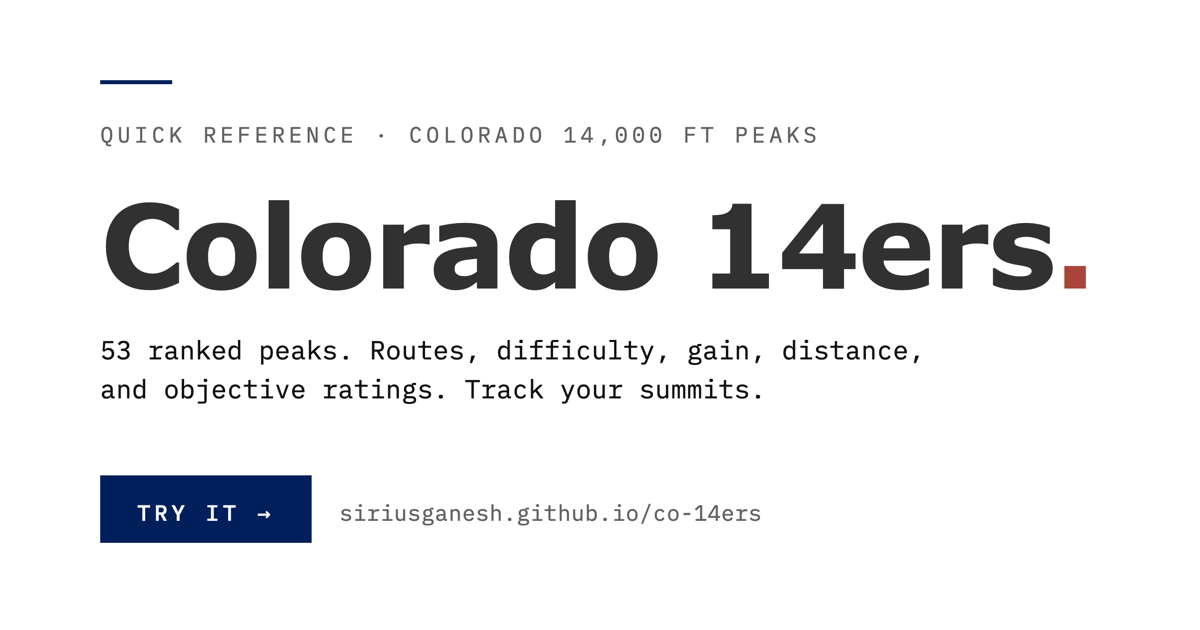
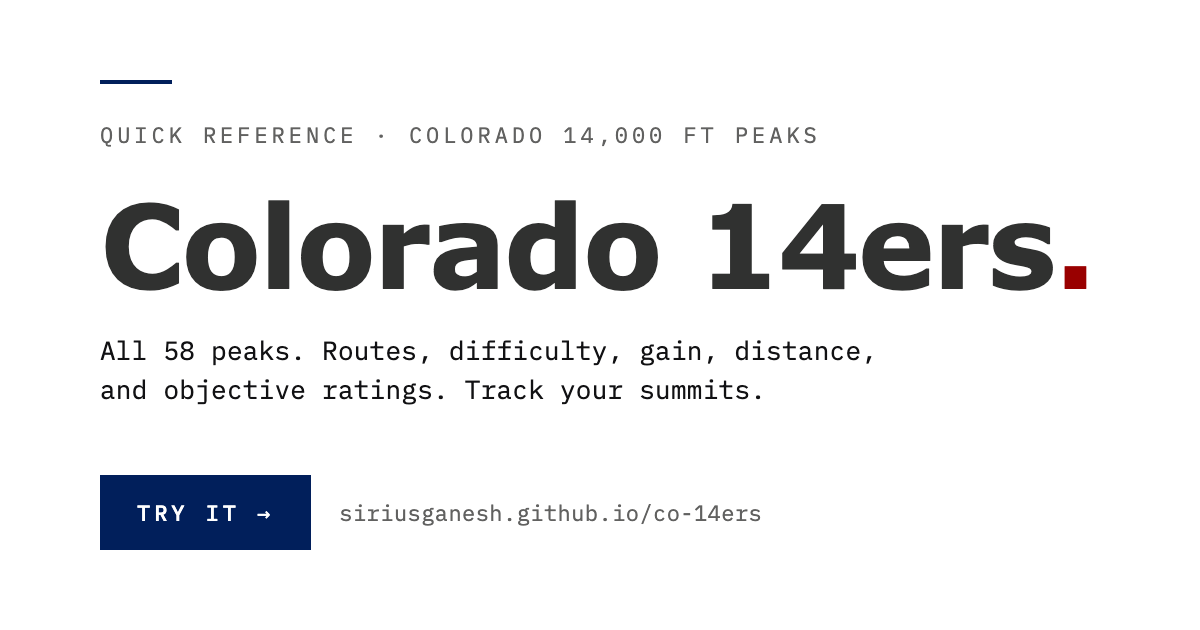
Make the list all 58, and drop the rank column (#40)
* List the five unranked peaks that have routes

The 20 unranked peaks split on whether they have routes, and the two
halves want opposite defaults.

Five have them: El Diente, Challenger Point, Mount Cameron, Conundrum
Peak and North Eolus. They carry a class, a road rating and the four
risk ratings, they are the five that take 14ers.com's list from 53 to
58, and people climb them. They were reachable only by typing a name,
so a query like class:<=3 range:san silently omitted El Diente and
North Eolus. They now sit in the default list and answer every filter
the way a ranked peak does.

The other 15 are subpoints with an empty routes array. Nothing on them
is filterable, so listing them by default would be 15 rows passing or
failing a filter on absence rather than on data. They keep the
text-token rule.

No render changes needed. The divider, the separate unranked count and
the ranked-only progress total were already there; only the gate in
applyFilters moved. Default view now reads "53 shown · 5 unranked" and
the progress line stays 0 / 53.

* Make the list all 58, and drop the rank column

Two usability changes that turned out to be the same change.

The target is 58, not 53. The five unranked peaks with routes are peaks
people set out to climb, so they count toward the total: progress reads
0 / 58, the count line reads 58 shown, and they sort in among the rest
rather than sitting below a divider. Only routeless subpoints stay
[…]

diff --git a/index.html b/index.html
@@ -4,19 +4,19 @@
 <meta charset="utf-8">
 <meta name="viewport" content="width=device-width, initial-scale=1">
 <title>Colorado 14ers</title>
-<meta name="description" content="Quick reference for the 53 ranked Colorado 14,000 ft peaks. Routes, difficulty, ratings. Track your summits.">
+<meta name="description" content="Quick reference for all 58 Colorado 14,000 ft peaks. Routes, difficulty, ratings. Track your summits.">
 <meta property="og:type" content="website">
 <meta property="og:title" content="Colorado 14ers">
-<meta property="og:description" content="Quick reference for the 53 ranked Colorado 14,000 ft peaks. Routes, difficulty, ratings. Track your summits.">
+<meta property="og:description" content="Quick reference for all 58 Colorado 14,000 ft peaks. Routes, difficulty, ratings. Track your summits.">
 <meta property="og:url" content="https://siriusganesh.github.io/co-14ers/">
-<meta property="og:image" content="https://siriusganesh.github.io/co-14ers/og-image.png?v=1">
+<meta property="og:image" content="https://siriusganesh.github.io/co-14ers/og-image.png?v=2">
 <meta property="og:image:width" content="1200">
 <meta property="og:image:height" content="630">
-<meta property="og:image:alt" content="Colorado 14ers — quick reference for the 53 ranked peaks above 14,000 ft.">
+<meta property="og:image:alt" content="Colorado 14ers — quick reference for all 58 peaks above 14,000 ft.">
 <meta name="twitter:card" content="summary_large_image">
 <meta name="twitter:title" content="Colorado 14ers">
-<meta name="twitter:description" content="Quick reference for the 53 ranked Colorado 14,000 ft peaks. Routes, difficulty, ratings. Track your summits.">
-<meta name="twitter:image" content="https://siriusganesh.github.io/co-14ers/og-image.png?v=1">
+<meta name="twitter:description" content="Quick reference for all 58 Colorado 14,000 ft peaks. Routes, difficulty, ratings. Track your summits.">
+<meta name="twitter:image" content="https://siriusganesh.github.io/co-14ers/og-image.png?v=2">
 <link rel="icon" type="image/svg+xml" href="favicon.svg?v=3">
 <meta name="theme-color" id="themeColor" content="#ffffff">
 <script>
@@ -350,14 +350,13 @@ table { width: 100%; border-collapse: collapse; font-size: 14px; }
    summited) cannot reflow the columns. Without table-layout: fixed
    the column widths are recomputed from whichever rows are visible,
    which causes the table to subtly resize on every filter change.
-   Peak (col 2) is left auto so it absorbs the leftover space. */
+   Peak (col 1) is left auto so it absorbs the leftover space. */
 #peakTable { table-layout: fixed; }
-#peakTable th:nth-child(1), #peakTable td:nth-child(1) { width: 3.25rem; }
-#peakTable th:nth-child(3), #peakTable td:nth-child(3) { width: 7rem; }
+#peakTable th:nth-child(2), #peakTable td:nth-child(2) { width: 7rem; }
+#peakTable th:nth-child(3), #peakTable td:nth-child(3) { width: 11rem; }
 #peakTable th:nth-child(4), #peakTable td:nth-child(4) { width: 11rem; }
-#peakTable th:nth-child(5), #peakTable td:nth-child(5) { width: 11rem; }
-#peakTable th:nth-child(6), #peakTable td:nth-child(6) { width: 4.5rem; }
-#peakTable th:nth-child(7), #peakTable td:nth-child(7) { width: 2.25rem; }
+#peakTable th:nth-child(5), #peakTable td:nth-child(5) { width: 4.5rem; }
+#peakTable th:nth-child(6), #peakTable td:nth-child(6) { width: 2.25rem; }
 th, td { text-align: left; padding: .6rem .7rem; border-bottom: 1px solid var(--border); vertical-align: top; }
 th {
   font-family: var(--font-mono); font-weight: 500; font-size: .68rem;
@@ -711,7 +710,7 @@ footer.page-footer {
 
 @media (max-width: 720px) {
   /* Below 720px some peak-table columns are display:none while the
-     detail row's colspan="7" still spans all seven tracks. Fixed
+     detail row's colspan="6" still spans all six tracks. Fixed
      layout realizes the hidden tracks when a row opens and
      redistributes widths onto the wrong columns, collapsing the peak
      name. Auto layout sizes from content and handles both cleanly. */
@@ -731,21 +730,23 @@ footer.page-footer {
   .page { padding: 2rem 1rem 3rem; }
   .controls input[type=search] { min-width: 0; flex: 1; }
 
-  /* Portrait: the table leads with what the site is for -- class and
-     road. Elevation is the least informative column on a 14ers list
-     (every row is 14,0xx), so it yields its space to the peak name. */
-  th.hide-xs, td.hide-xs { display: none; }
+  /* Elevation used to be hidden here: every row reads 14,0xx, so it was
+     the least informative column and it yielded its width to the peak
+     name. It is the default sort key now that the rank column is gone,
+     and a list sorted by a column you cannot see reads as unsorted, so
+     it comes back. The width the rank column gave up covers most of it;
+     a smaller portrait figure covers the rest. */
+  td.elev { font-size: .7rem; }
   /* Column budget: the .68rem badge is ~109px wide -- wider than a
      7rem cell's content box -- so it overflowed into the road column
-     and sat flush against the bars while the rank gutter idled. A
-     slightly smaller portrait badge fits a 6.5rem column with real
-     margin; the reclaimed width goes to the peak name. */
-  #peakTable th:nth-child(1), #peakTable td:nth-child(1) { width: 1.8rem; }
-  #peakTable th:nth-child(5), #peakTable td:nth-child(5) { width: 6.5rem; }
-  #peakTable th:nth-child(6), #peakTable td:nth-child(6) { width: 3rem; }
-  #peakTable th:nth-child(7), #peakTable td:nth-child(7) { width: 1.9rem; }
-  th, td { padding: .45rem .4rem; }
-  td:first-child, th:first-child { padding-right: .15rem; }
+     and sat flush against the bars. A slightly smaller portrait badge
+     fits a 6.5rem column with real margin; the reclaimed width goes to
+     the peak name. */
+  #peakTable th:nth-child(2), #peakTable td:nth-child(2) { width: 3.2rem; }
+  #peakTable th:nth-child(4), #peakTable td:nth-child(4) { width: 6.5rem; }
+  #peakTable th:nth-child(5), #peakTable td:nth-child(5) { width: 3rem; }
+  #peakTable th:nth-child(6), #peakTable td:nth-child(6) { width: 1.9rem; }
+  th, td { padding: .45rem .25rem; }
   table { font-size: 13px; }
   .badge { font-size: .6rem; letter-spacing: .06em; padding: .15rem .35rem; }
 
@@ -774,7 +775,7 @@ footer.page-footer {
     </div>
     <h1>Colorado 14ers<span class="accent">.</span></h1>
     <p class="lede">
-      The 53 ranked peaks above 14,000 feet. Routes, difficulty, gain, distance, and objective ratings (exposure, rockfall, route-finding, commitment).
+      All 58 peaks above 14,000 feet: the 53 ranked summits plus the five unranked ones with routes of their own. Routes, difficulty, gain, distance, and objective ratings (exposure, rockfall, route-finding, commitment).
       Sign in to track <strong>summits, route lines, and a plan-to-climb list</strong> across devices.
       Signed out, your progress stays in this browser only.
     </p>
@@ -793,7 +794,7 @@ footer.page-footer {
   <section class="block">
     <header>
       <h2>peaks</h2>
-      <span class="meta" id="peakCount">53 ranked</span>
+      <span class="meta" id="peakCount">58 peaks</span>
       <span class="sr-only" role="status" aria-live="polite" id="peakCountStatus"></span>
     </header>
 
@@ -878,9 +879,8 @@ footer.page-footer {
     <table id="peakTable">
       <thead>
         <tr>
-          <th data-sort="rank" class="sort-asc">#</th>
           <th data-sort="name">Peak</th>
-          <th data-sort="elevation_ft" class="hide-xs">Elev</th>
+          <th data-sort="elevation_ft" class="sort-desc">Elev</th>
           <th data-sort="range" class="hide-sm">Range</th>
           <th data-sort="view_score" id="routeCol">Standard</th>
           <th data-sort="view_road">Road</th>
@@ -1469,6 +1469,12 @@ function preparePeaks(peaks) {
     p.combo_routes = p.routes.filter(r => r.kind === "combo");
     p.approach_routes = p.routes.filter(r => r.kind === "approach");
     p.route_count = p.summit_routes.length;
+    // A subpoint is an unranked peak with no routes of its own: North
+    // Massive, East Crestone, South Elbert and 12 more. The other five
+    // unranked peaks do have routes, and those five are part of the 58 this
+    // page is a list of, so "unranked" is the wrong line to divide on
+    // anywhere in the UI. This is the right one.
+    p.subpoint = p.unranked && p.summit_routes.length === 0;
     // Prefer the route that is both standard and primary. build_data.py's
     // sort already puts it first, but a peak's list also carries combos
     // flagged standard (the Decalibron is Bross's standard), so say it
@@ -1544,17 +1550,17 @@ function applyFilters(peaks, parsed, tracked) {
     p.view_route = p.standard;
     // Set when that route is not the standard one, so the row can name it.
     p.scope_hit = null;
-    // Unranked summits (El Diente, Challenger Point, Conundrum, Cameron
-    // and 16 others) stay out of the default list, but they are real peaks
-    // in the data and were unreachable by any query because this test ran
-    // before the search test. A text token brings them back, grouped
-    // separately by render() so the ranked count stays honest.
+    // Subpoints are out of the default list. Nothing on them is filterable
+    // -- no class, no road, no ratings -- so listing them would be 15 rows
+    // passing or failing a filter on absence rather than on data. A text
+    // token brings them back, grouped under the divider by render().
     //
-    // Text tokens only, not terms: now that the selects and chips write
-    // terms, gating on terms too would mean clicking "hide summited"
-    // surfaced all 20 subpoints. The rule is that you search for a subpoint
-    // by name; filters describe the ranked list.
-    if (p.unranked && !tokens.length) return false;
+    // Text tokens only, not terms: gating on terms as well would mean
+    // clicking "hide summited" surfaced all 15 subpoints at once.
+    //
+    // The five unranked peaks that DO have routes are not subpoints and are
+    // not gated here. See the p.subpoint comment in preparePeaks.
+    if (p.subpoint && !tokens.length) return false;
     // Every token must appear somewhere in the peak's own name, slug or range,
     // or on one route in the search pool. AND across tokens, not one substring
     // test against a joined string, so word order and extra words in between
@@ -1601,7 +1607,7 @@ const state = {
   // write it rather than holding values of their own, so there is nothing
   // that can disagree with what the search box says.
   q: "",
-  sort: "rank", dir: "asc", authMode: "signin",
+  sort: "elevation_ft", dir: "desc", authMode: "signin",
   // Set when the user clicks a column header, cleared when the query box is
   // emptied. While false, a text query sorts by relevance.
   sortPinned: false,
@@ -2053,7 +2059,7 @@ function applySortMode() {
   const hasText = parseQuery(state.q).tokens.length > 0;
   if (!state.q) state.sortPinned = false;
   if (hasText && !state.sortPinned) { state.sort = "relevance"; state.dir = "asc"; }
-  else if (!hasText && state.sort === "relevance") { state.sort = "rank"; state.dir = "asc"; }
+  else if (!hasText && state.sort === "relevance") { state.sort = "elevation_ft"; state.dir = "desc"; }
 }
 
 // The query is the whole filter state, so it is also the whole shareable
@@ -2345,13 +2351,15 @@ function render() {
   const routeColLabel = allStandard ? "Standard" : (ROUTE_COL_LABEL[parsed.scope] || "Standard");
   document.getElementById("routeCol").textContent = routeColLabel;
   rows.sort((a,b) => {
-    // Relevance is a sort key like any other, with rank as the tie-break so
-    // equally relevant peaks stay in the order the page normally shows.
+    // Relevance is a sort key like any other, with elevation as the
+    // tie-break so equally relevant peaks stay in the order the page
+    // normally shows. Negated because relevance always sorts ascending
+    // while the default elevation order runs highest first.
     if (state.sort === "relevance" && a.relevance !== b.relevance) {
       return state.dir === "asc" ? a.relevance - b.relevance : b.relevance - a.relevance;
     }
-    let av = state.sort === "relevance" ? a.rank : a[state.sort];
-    let bv = state.sort === "relevance" ? b.rank : b[state.sort];
+    let av = state.sort === "relevance" ? -a.elevation_ft : a[state.sort];
+    let bv = state.sort === "relevance" ? -b.elevation_ft : b[state.sort];
     if (typeof av === "string") { av = av.toLowerCase(); bv = bv.toLowerCase(); }
     if (av == null) av = Infinity; if (bv == null) bv = Infinity;
     if (av < bv) return state.dir === "asc" ? -1 : 1;
@@ -2364,8 +2372,10 @@ function render() {
     if (th.dataset.sort === state.sort) th.classList.add(state.dir === "asc" ? "sort-asc" : "sort-desc");
   });
 
-  const rankedRows = rows.filter(p => !p.unranked);
-  const unrankedRows = rows.filter(p => p.unranked);
+  // The list is the 58, so the five unranked peaks with routes count as
+  // listed rows. Only routeless subpoints sit apart.
+  const listedRows = rows.filter(p => !p.subpoint);
+  const subpointRows = rows.filter(p => p.subpoint);
   // Rows are peaks, so one route shared by several summits fills several of
   // them: kind:combo shows 21 rows over 11 combos, kind:approach 9 over 4.
   // Unsaid, that reads as 21 things to climb.
@@ -2380,16 +2390,17 @@ function render() {
   // standard-scope view does, so the line stays quiet until there is
   // something to disclose. That also drops it from kind:route, where 53 rows
   // really are 53 distinct routes.
-  const distinctRoutes = new Set(rankedRows.map(p => p.view_route && p.view_route.route_key)).size;
+  const distinctRoutes = new Set(listedRows.map(p => p.view_route && p.view_route.route_key)).size;
   const routeNoun = parsed.kind === "combo" ? ["combo", "combos"]
     : parsed.kind === "approach" ? ["approach", "approaches"] : ["route", "routes"];
   const routeWord = routeNoun[distinctRoutes === 1 ? 0 : 1];
-  const showRouteCount = distinctRoutes < rankedRows.length;
+  const showRouteCount = distinctRoutes < listedRows.length;
   // Relevance ordering leaves no sort arrow on any column, since no column is
   // the sort key, so the count line has to say how the list is ordered.
-  const countText = `${rankedRows.length} shown`
+  const countText = `${listedRows.length} shown`
     + (showRouteCount ? ` \u00b7 ${distinctRoutes} ${routeWord}` : "")
-    + (unrankedRows.length ? ` \u00b7 ${unrankedRows.length} unranked` : "")
+    + (subpointRows.length
+        ? ` \u00b7 ${subpointRows.length} subpoint${subpointRows.length === 1 ? "" : "s"}` : "")
     + (state.sort === "relevance" ? " \u00b7 by relevance" : "");
   document.getElementById("peakCount").textContent = countText;
   // The column heading renaming itself is a visual-only signal, so the live
@@ -2397,21 +2408,25 @@ function render() {
   // the visible one, which the heading already sits next to.
   announceCount(countText
     + (routeColLabel === "Standard" ? "" : ` \u00b7 ${routeColLabel.toLowerCase()} column`));
-  const ranked = PEAKS.filter(p => !p.unranked);
-  const done = ranked.filter(p => state.summits.has(p.peak_id)).length;
-  const planCount = ranked.filter(p => state.planned.has(p.peak_id)).length;
-  document.getElementById("progress").textContent = `${done} / ${ranked.length} summited${planCount ? ` · ${planCount} planned` : ""}`;
+  // The target is the 58, not the 53 ranked: the five unranked summits with
+  // routes are peaks people set out to climb, so they count. Subpoints do
+  // not -- there is no route up them to have done.
+  const listed = PEAKS.filter(p => !p.subpoint);
+  const done = listed.filter(p => state.summits.has(p.peak_id)).length;
+  const planCount = listed.filter(p => state.planned.has(p.peak_id)).length;
+  document.getElementById("progress").textContent = `${done} / ${listed.length} summited${planCount ? ` · ${planCount} planned` : ""}`;
 
   const tb = document.getElementById("peakBody");
   tb.innerHTML = "";
-  // Unranked matches always sort to the bottom, behind a divider,
-  // whatever the active column sort is.
-  const ordered = unrankedRows.length ? rankedRows.concat(unrankedRows) : rows;
+  // Subpoint matches always sort to the bottom, behind a divider, whatever
+  // the active column sort is. The five unranked peaks with routes are not
+  // separated out any more: they belong to the 58 and sort in among them.
+  const ordered = subpointRows.length ? listedRows.concat(subpointRows) : rows;
   if (!ordered.length) {
     const emptyTr = document.createElement("tr");
     emptyTr.className = "empty-row";
     const guess = didYouMean(PEAKS, tokens);
-    emptyTr.innerHTML = `<td colspan="7">no peaks match.${guess
+    emptyTr.innerHTML = `<td colspan="6">no peaks match.${guess
       ? ` did you mean <button type="button" class="link-btn" id="emptyGuess">${guess.join(" ")}</button>?`
       : ""} <button type="button" class="link-btn" id="emptyReset">clear filters</button></td>`;
     const guessBtn = emptyTr.querySelector("#emptyGuess");
@@ -2440,11 +2455,11 @@ function render() {
   }
   let dividerDrawn = false;
   ordered.forEach(p => {
-    if (p.unranked && !dividerDrawn) {
+    if (p.subpoint && !dividerDrawn) {
       dividerDrawn = true;
       const divTr = document.createElement("tr");
       divTr.className = "group-divider";
-      divTr.innerHTML = `<td colspan="7">unranked summits</td>`;
+      divTr.innerHTML = `<td colspan="6">subpoints</td>`;
       tb.appendChild(divTr);
     }
     const tr = document.createElement("tr");
@@ -2452,9 +2467,8 @@ function render() {
     if (state.planned.has(p.peak_id)) tr.classList.add("planned");
     if (state.openPeak === p.peak_id) tr.classList.add("is-open");
     tr.innerHTML = `
-      <td>${p.rank ?? ""}</td>
       <td class="peak-name"><button type="button" class="row-toggle" aria-expanded="${state.openPeak === p.peak_id}">${highlightName(p.name, tokens)}</button>${matchHint(p, tokens)}</td>
-      <td class="elev hide-xs">${p.elevation_ft.toLocaleString()}</td>
+      <td class="elev">${p.elevation_ft.toLocaleString()}</td>
       <td class="range hide-sm"><button type="button" class="range-filter" data-range="${RANGE_TOKEN[p.range] || ""}" title="filter to ${p.range}">${p.range}</button></td>
       <td title="${routeTooltip(p)}">${p.view_route ? classBadge(p.view_route.difficulty) : '<span class="badge outline">—</span>'}</td>
       <td class="road-col">${roadBars(p.view_road, p.scope_hit && p.scope_hit.name)}</td>
@@ -2490,7 +2504,7 @@ function render() {
     if (state.openPeak === p.peak_id) {
       const detailTr = document.createElement("tr");
       detailTr.className = "detail-row";
-      detailTr.innerHTML = `<td colspan="7">${detailHTML(p)}</td>`;
+      detailTr.innerHTML = `<td colspan="6">${detailHTML(p)}</td>`;
       tb.appendChild(detailTr);
       bindDetailEvents(p, detailTr);
     }
@@ -2628,7 +2642,7 @@ function detailHTML(p) {
       <div class="panel-head">
         <div>
           <h3>${p.name}</h3>
-          <div class="meta">${p.elevation_ft.toLocaleString()} ft · ${p.range} · rank #${p.rank ?? "—"}</div>
+          <div class="meta">${p.elevation_ft.toLocaleString()} ft · ${p.range}${p.unranked ? " · unranked" : ""}</div>
           ${p.note ? `<div class="note">${p.note}</div>` : ""}
         </div>
         <div class="panel-actions">

diff --git a/og-image.html b/og-image.html
@@ -118,7 +118,7 @@ h1 .accent { color: var(--rust); }
 <div class="rule"></div>
 <div class="overline">Quick reference · Colorado 14,000 ft peaks</div>
 <h1>Colorado 14ers<span class="accent">.</span></h1>
-<p class="tagline">53 ranked peaks. Routes, difficulty, gain, distance,<br>and objective ratings. Track your summits.</p>
+<p class="tagline">All 58 peaks. Routes, difficulty, gain, distance,<br>and objective ratings. Track your summits.</p>
 
 <div class="cta-row">
   <span class="cta">Try it →</span>

diff --git a/README.md b/README.md
@@ -1,6 +1,6 @@
 # Colorado 14ers
 
-Quick-reference site for the 53 ranked Colorado 14,000 ft peaks, built
+Quick-reference site for all 58 Colorado 14,000 ft peaks, built
 from data scraped off [14ers.com](https://14ers.com).
 
 [Live →](https://siriusganesh.github.io/co-14ers/)
